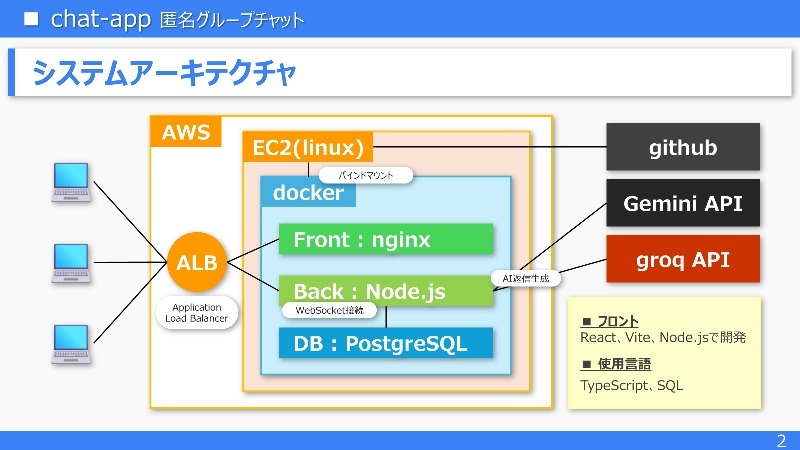
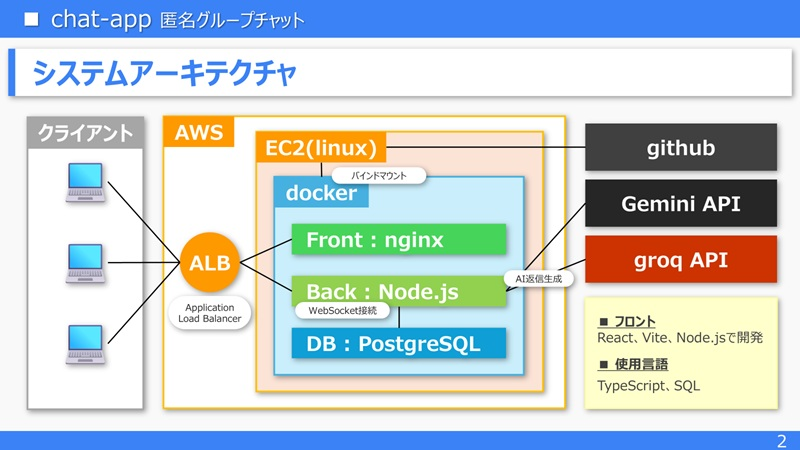
add pdf google drive link

diff --git a/README.md b/README.md
@@ -38,6 +38,8 @@
 本リポジトリのフロントエンド設計やコンポーネント構成の詳細については、以下のドキュメントをご参照ください。
 * **[フロントエンド設計・仕様書 (Frontend Specs)](./docs/frontend-specs.md)**
   * React/TypeScriptによるコンポーネント分割、WebSocketのライフサイクル管理、UI/UXのこだわり（自動スクロール制御やIME入力制御など）をまとめています。
+* **[簡易版ポートフォリオ・スライド (Google Drive)](https://drive.google.com/file/d/1QVz69x2bxvEy3y62eVaxzeCQg1Fvcegj/view?usp=sharing)**
+  * 本アプリの全体像を説明する資料。リンクからGoogle Drive上のPDFファイルをご覧いただけます。
 
 ---
 
